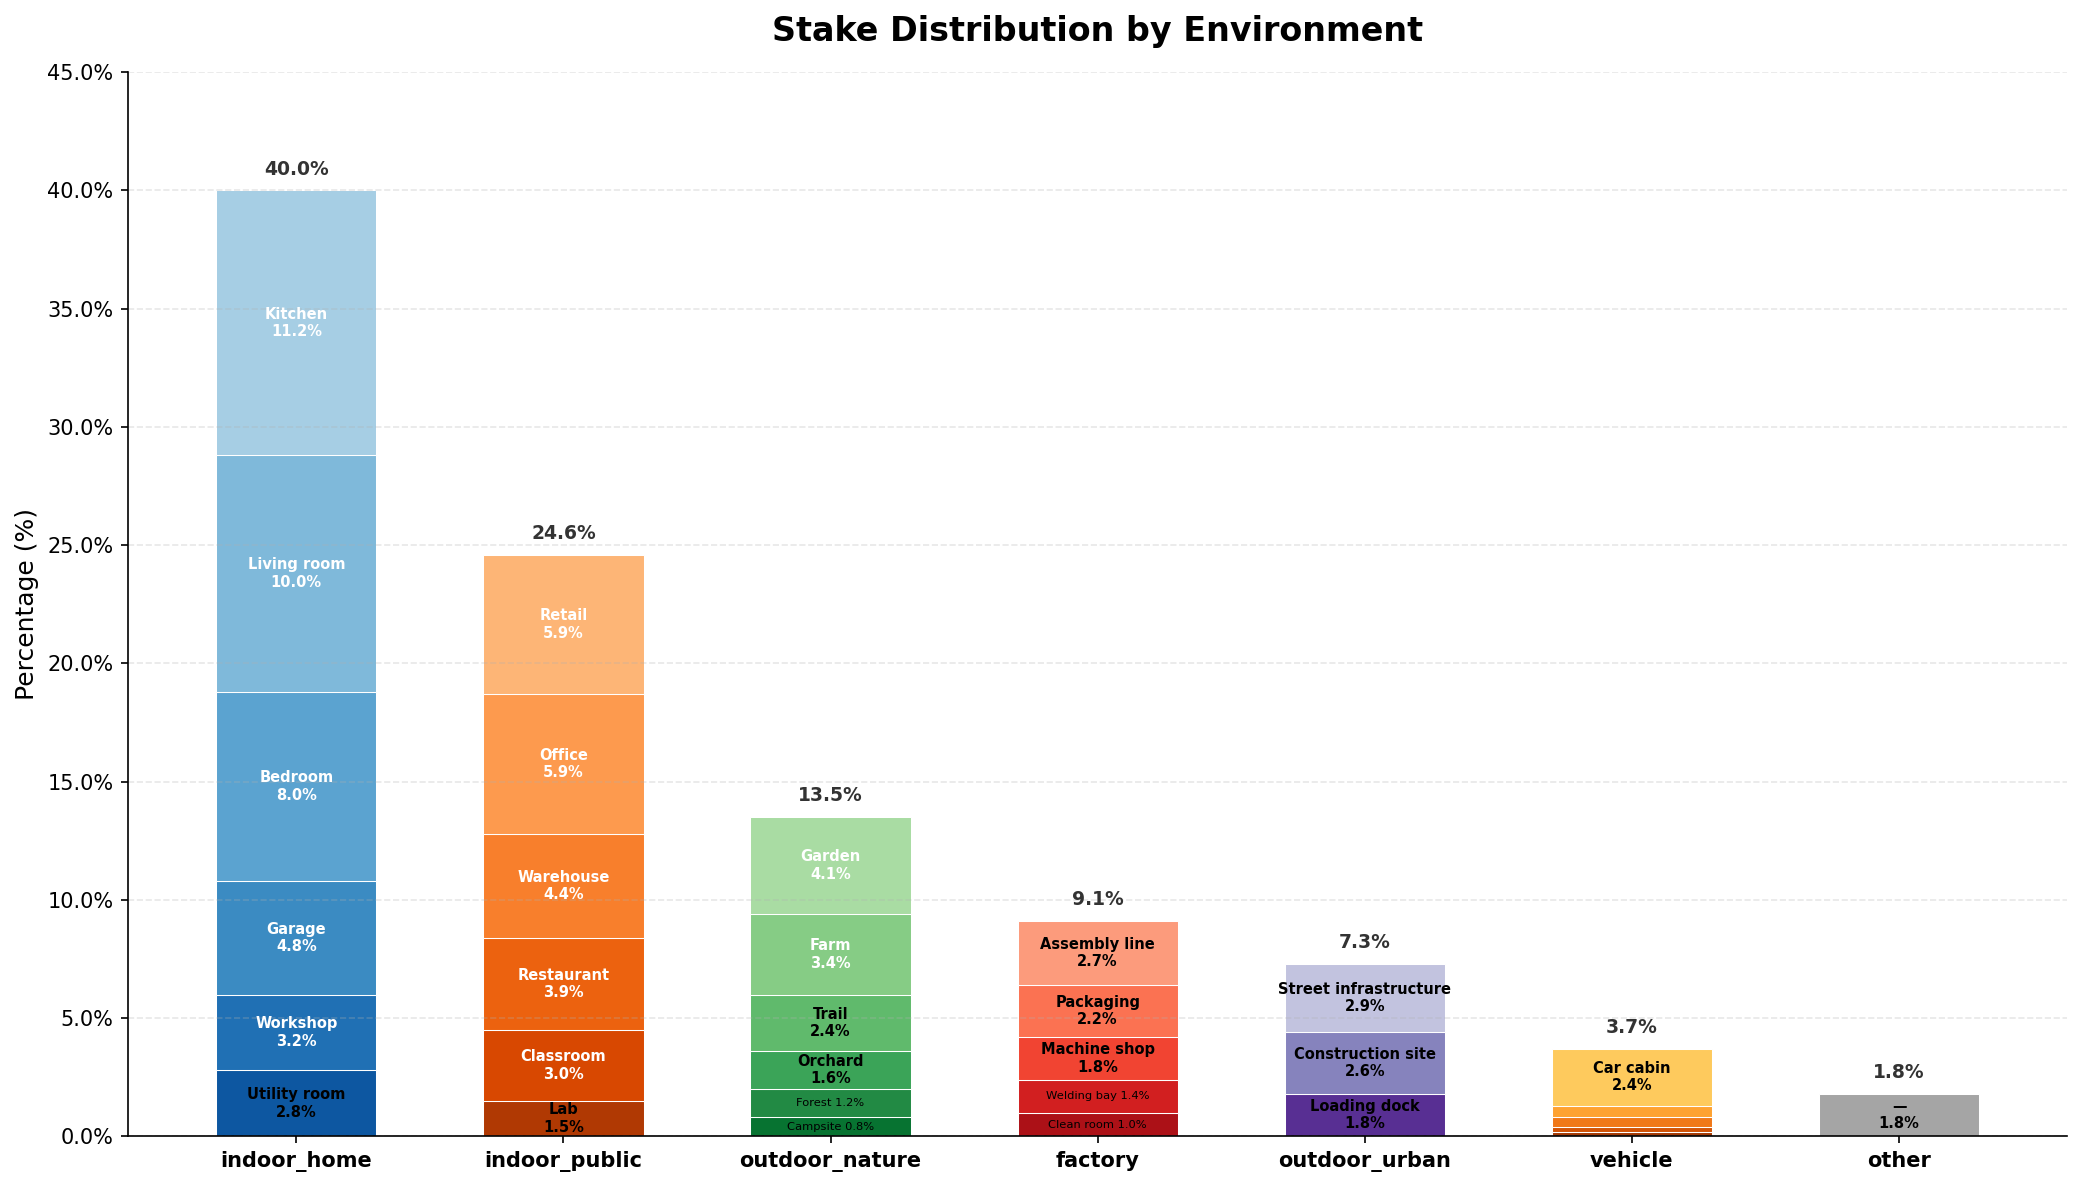
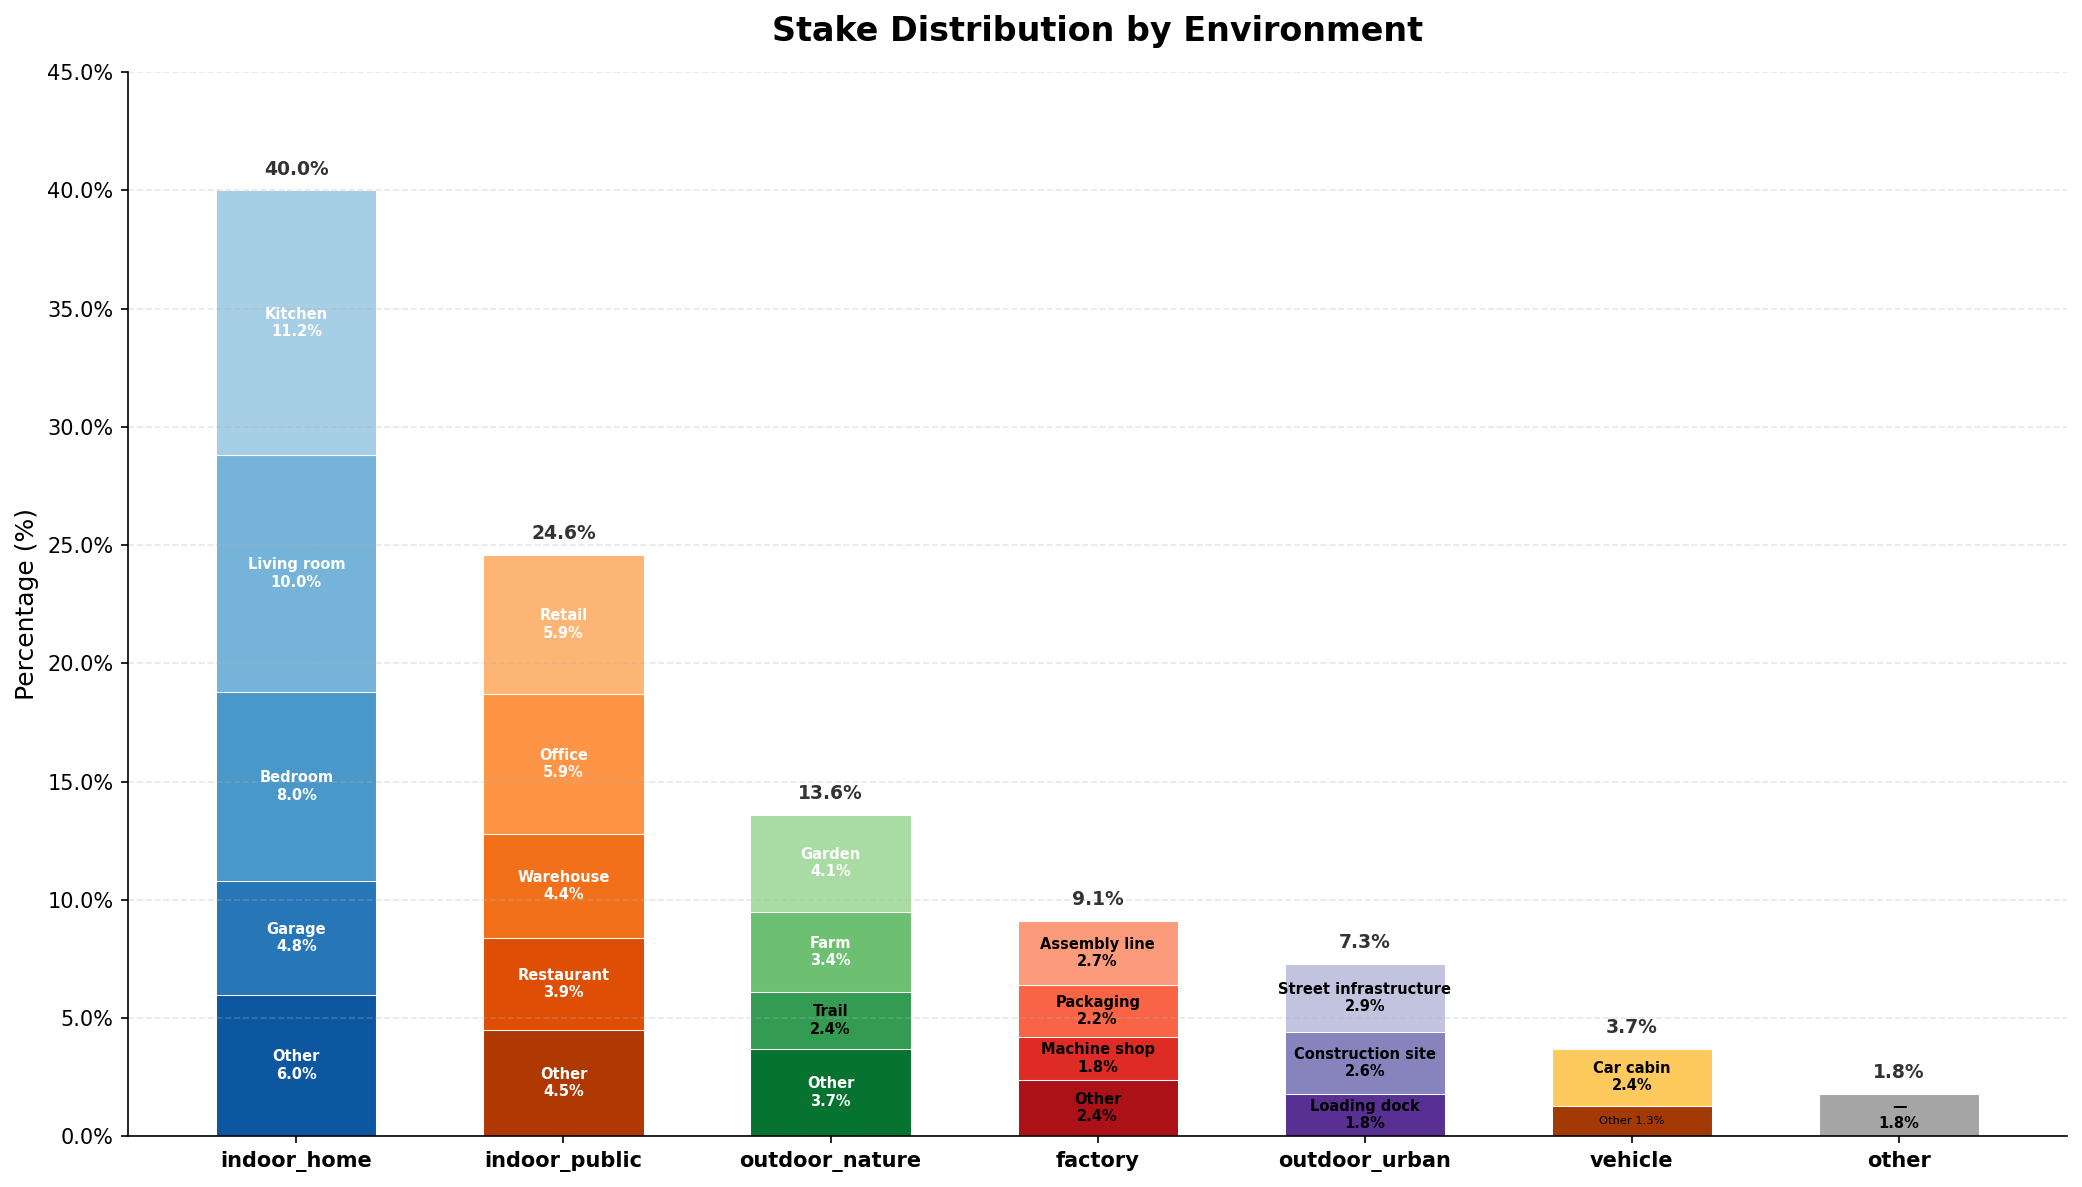
Update environment data to match revised table with consolidated "Other" categories
https://claude.ai/code/session_018xFGws4xpUTXJntMBVQsZP

diff --git a/stake_histogram.py b/stake_histogram.py
@@ -9,31 +9,26 @@ data = {
         ("Living room", 10.0),
         ("Bedroom", 8.0),
         ("Garage", 4.8),
-        ("Workshop", 3.2),
-        ("Utility room", 2.8),
+        ("Other", 6.0),
     ],
     "indoor_public": [
         ("Retail", 5.9),
         ("Office", 5.9),
         ("Warehouse", 4.4),
         ("Restaurant", 3.9),
-        ("Classroom", 3.0),
-        ("Lab", 1.5),
+        ("Other", 4.5),
     ],
     "outdoor_nature": [
         ("Garden", 4.1),
         ("Farm", 3.4),
         ("Trail", 2.4),
-        ("Orchard", 1.6),
-        ("Forest", 1.2),
-        ("Campsite", 0.8),
+        ("Other", 3.7),
     ],
     "factory": [
         ("Assembly line", 2.7),
         ("Packaging", 2.2),
         ("Machine shop", 1.8),
-        ("Welding bay", 1.4),
-        ("Clean room", 1.0),
+        ("Other", 2.4),
     ],
     "outdoor_urban": [
         ("Street infrastructure", 2.9),
@@ -42,10 +37,7 @@ data = {
     ],
     "vehicle": [
         ("Car cabin", 2.4),
-        ("Truck cabin", 0.5),
-        ("Forklift", 0.4),
-        ("Crane", 0.2),
-        ("Excavator", 0.2),
+        ("Other", 1.3),
     ],
     "other": [
         ("\u2014", 1.8),
